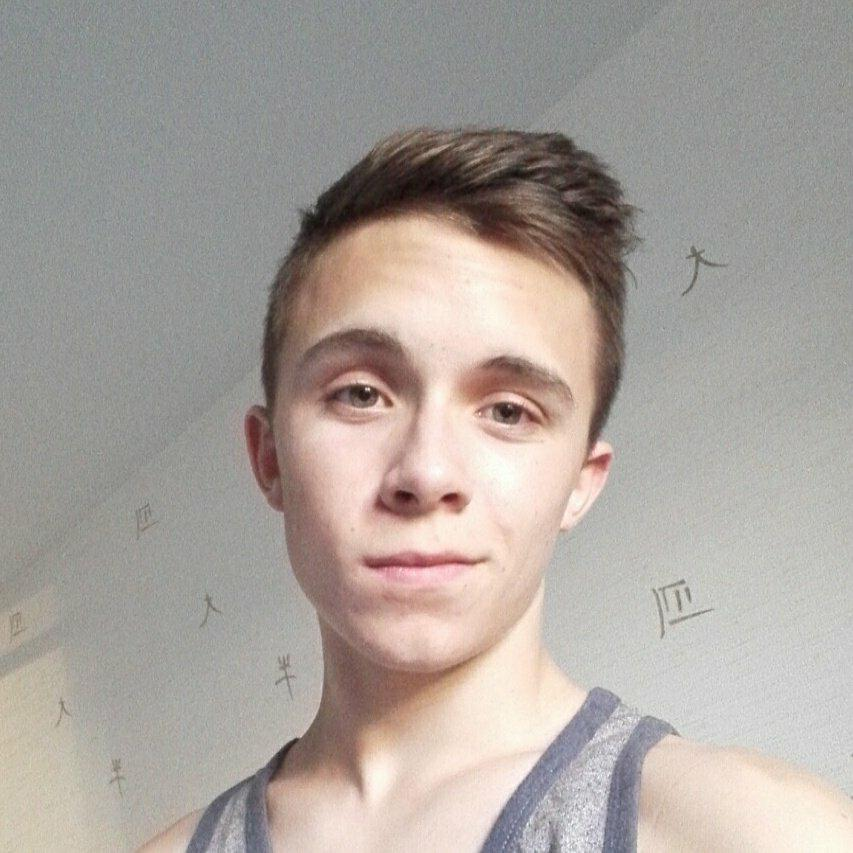
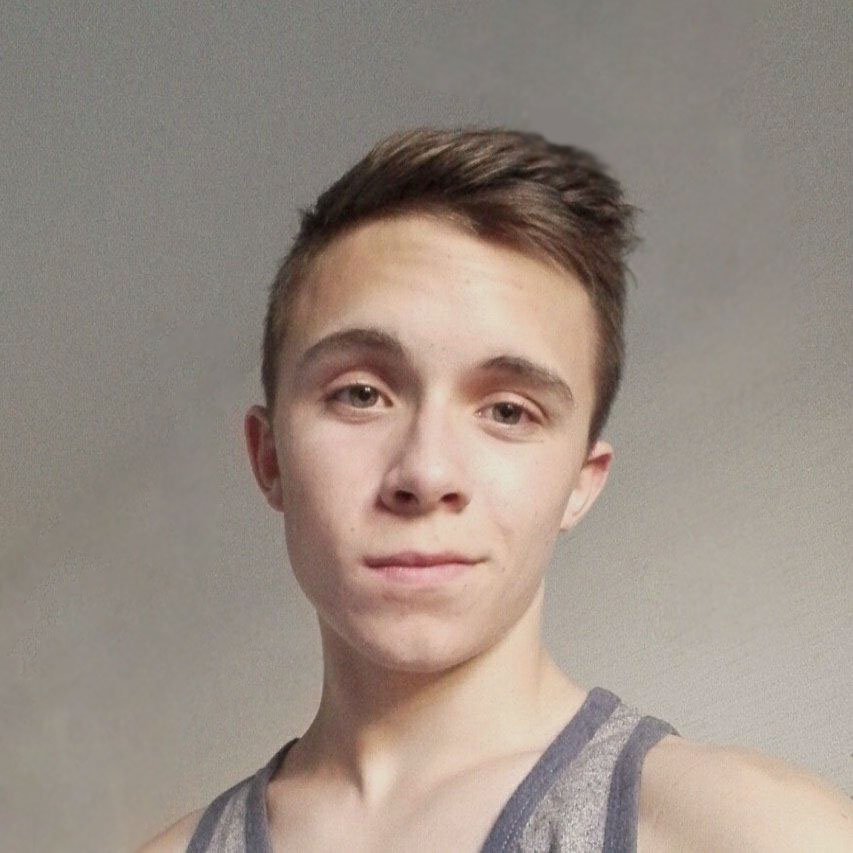
tete de nico jpg

diff --git a/main.php b/main.php
@@ -103,7 +103,7 @@
 					<span>Nicolas RUBIO</span>
 				</div>
 				<div style="text-align: center;">
-				<image src="images/nicolas.png" class="img-circle img-responsive" style="width:200px; margin: auto;">
+				<image src="images/nicolas.jpg" class="img-circle img-responsive" style="width:200px; margin: auto;">
 				</div>
 				<div class="team_text">
 					<i>Description à venir</i>
